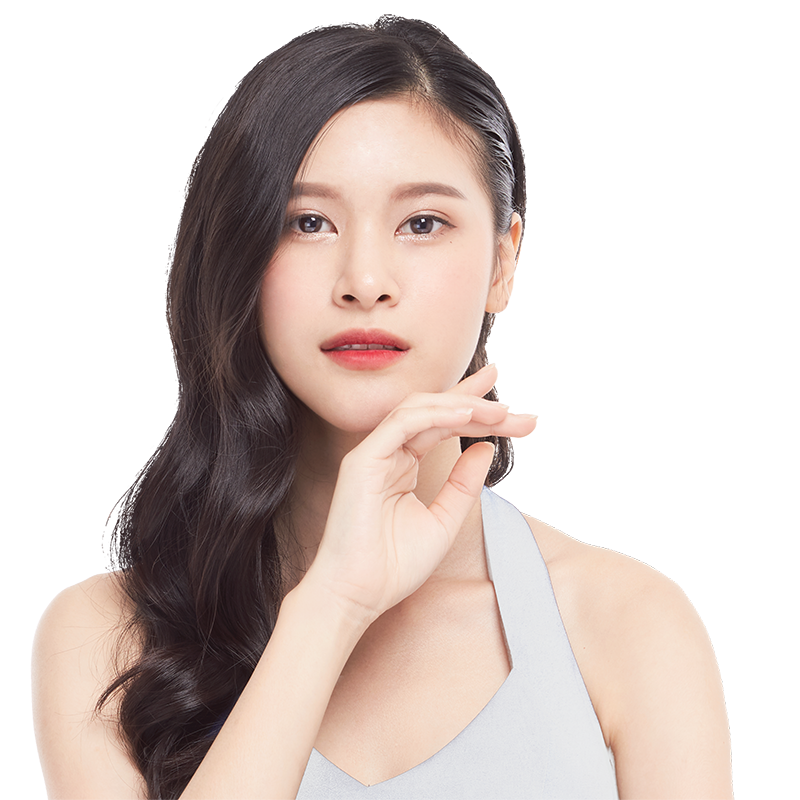
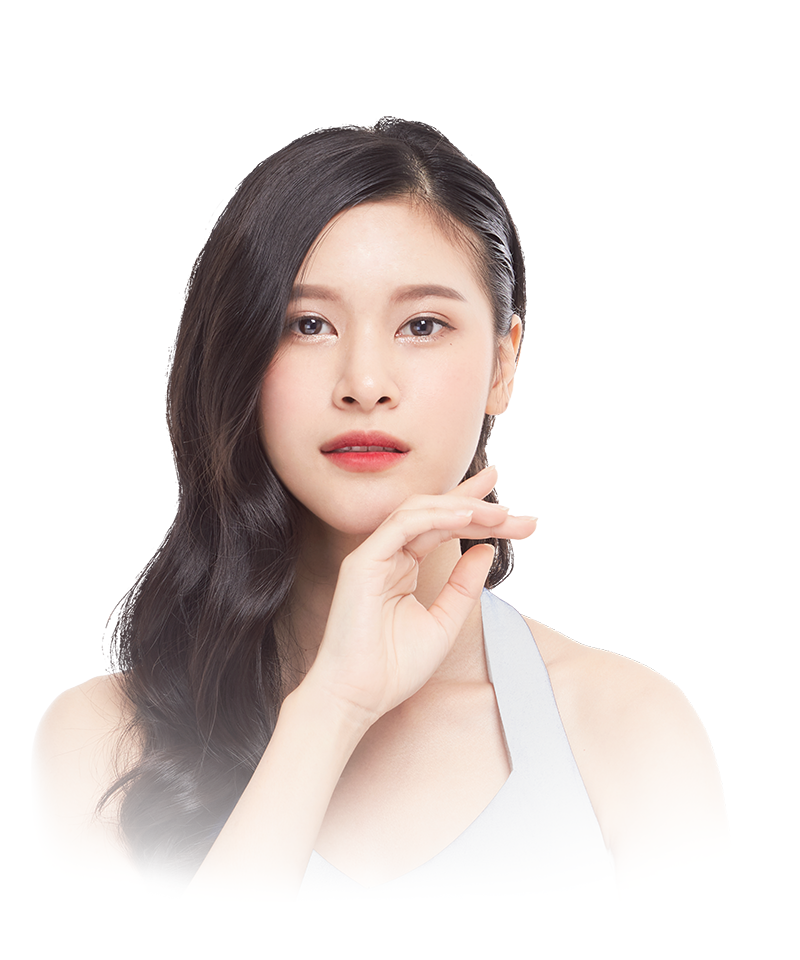
fix modal layout

diff --git a/theline-voucher-2018/index.html b/theline-voucher-2018/index.html
@@ -127,21 +127,21 @@
               <div class="modal-content">
                   <div class="modal-body voucher-bg" style="padding-bottom: 0;">
                       <div class="row">
-                          <div class="col-xs-8 col-sm-7 xs-hidden">
+                          <div class="voucher-model">
                               <div class="row">
                                   <img class="img-resp" src="assets/img/voucher_model-01.png">
                               </div>
                           </div>
-                          <div class="col-xs-12 col-sm-5 pd-top">
+                          <div class="voucher-text">
                               <div class="row">
                                   <div class="col-xs-5 col-xs-offset-7">
                                       <img class="img-resp" src="assets/img/theline-logo.png">
                                   </div>
                               </div>
                               <br>
+                              <br>
                               <div class="row">
                                   <div class="col-xs-12">
-                                      <p><strong>No. 001</strong></p>
                                       <h3 class="pd-top">Name and Surname</h3>
                                       <p>Code : #034654123102341</p>
                                   </div>

diff --git a/theline-voucher-2018/assets/css/grid-hidden.css b/theline-voucher-2018/assets/css/grid-hidden.css
@@ -1,12 +1,19 @@
 @media(min-width:300px) {
     .xs-hidden {display: none;}
-    img-resp {width: 100%;}
+    .img-resp {width: 100%;}
+    .voucher-model { display: inline;  position: absolute; bottom: 0;opacity: .25; width: 100%; padding-left: 15px; padding-right: 15px; float: left;}
+    .voucher-text { display: inline; width: 100%; padding-left: 15px; padding-right: 15px; float: left; position: static;}
+    
 }
 @media(min-width:768px) {
     .sm-hidden {display: none;}
+    .voucher-model { /*display: block;*/ position: relative; bottom: 0; left: 0; opacity: 1;width: 60%;}
+    .voucher-text { width: 40%; }
 }
 @media(min-width:1024px) {
     .md-hidden {display: none;}
+    .voucher-model { /*display: block;*/ position: inherit; bottom: 0; left: 0; opacity: 1;width: 60%;}
+    .voucher-text { width: 40%; }
 }
 @media(min-width:1280px) {
     .lg-hidden {display: none;}
